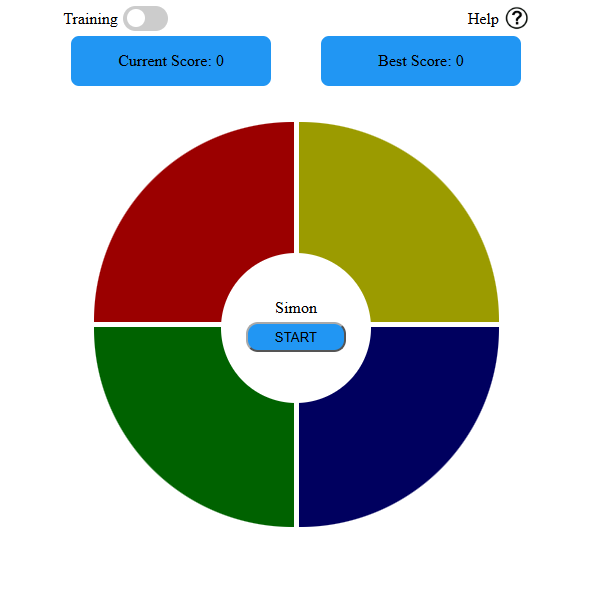
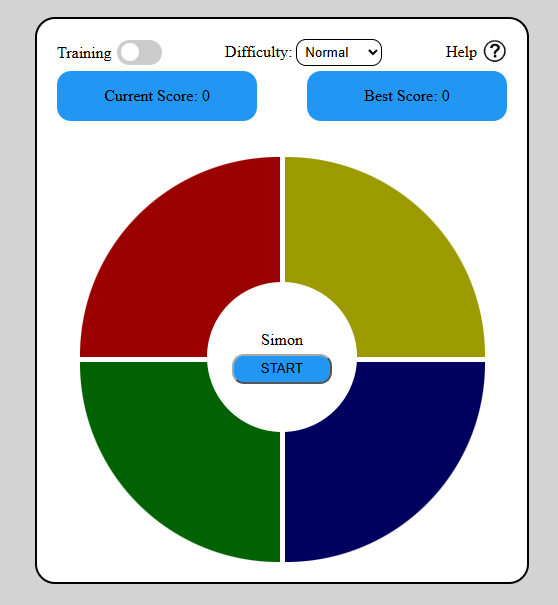
Added difficulty settings

diff --git a/js/app.js b/js/app.js
@@ -1,6 +1,4 @@
-/*-------------------------------- Constants --------------------------------*/
-const finishCriteria = 5
-/*-------------------------------- Variables --------------------------------*/
+let finishCriteria = 5
 let sequence = []
 let userInput = []
 let currentGameMode = 'Simon'
@@ -10,7 +8,6 @@ let bestScore = 0
 let currentIndexToPress = 0
 let timeOut = 1000
 let i = 0
-/*------------------------ Cached Element References ------------------------*/
 
 const topLeftEl = document.querySelector('.top-left')
 const topRightEl = document.querySelector('.top-right')
@@ -21,56 +18,38 @@ const currentScoreEl = document.querySelector('#currentScore')
 const BestScoreEl = document.querySelector('#bestScore')
 const startEl = document.querySelector('#start')
 const popupEl = document.querySelector('#popup')
-
+const diffSelectorEl = document.querySelector('#difficulty')
 const youWinImgEl = document.querySelector('#youWinImg')
 const youLoseImgEl = document.querySelector('#youLoseImg')
 const gameStatusParagraphEl = document.querySelector('#gameStatusParagraph')
 const resetbuttonEl = document.querySelector('#resetGame')
 
 
-
-/*----------------------------- Event Listeners -----------------------------*/
-
 topLeftEl.addEventListener('click', () => {
     playSound('Assets_Audio_A7')
-    // console.log('clicked topLeftEl')
     userInput.push(0)
     buttonPress()
-    // buttonPress(0)
 })
 topRightEl.addEventListener('click', () => {
     playSound('Assets_Audio_C2')
-    // console.log('clicked topRightEl')
     userInput.push(1)
     buttonPress()
-    // buttonPress(1)
 })
 bottomLeftEl.addEventListener('click', () => {
     playSound('Assets_Audio_D7')
-    // console.log('clicked bottomLeftEl')
     userInput.push(2)
     buttonPress()
-    // buttonPress(2)
 })
 bottomRightEl.addEventListener('click', () => {
     playSound('Assets_Audio_G2')
-    // console.log('clicked bottomRightEl')
     userInput.push(3)
     buttonPress()
-    // buttonPress(3)
 })
 resetbuttonEl.addEventListener('click', () => {
     sequence = []
     userInput = []
     popupEl.style.display = 'none'
-    // gameStart = true
     startEl.textContent = 'START'
-    // nextSequence()
-    // startEl.classList = 'active'
-    // topLeftEl.inert = false
-    // topRightEl.inert = false
-    // bottomLeftEl.inert = false
-    // bottomRightEl.inert = false
 })
 
 //Set game mode
@@ -80,6 +59,21 @@ gameModeEl.addEventListener('change', () => {
     } else {
         currentGameMode = 'Simon'
     }
+})
+
+diffSelectorEl.addEventListener('change', () => {
+    if (diffSelectorEl.value === 'easy') {
+        finishCriteria = 5
+        timeOut = 1000
+    } else if (diffSelectorEl.value === 'normal') {
+        finishCriteria = 25
+        timeOut = 800
+    } else if (diffSelectorEl.value === 'unlimited') {
+        finishCriteria = Infinity
+        timeOut = 500
+    }
+    console.log('.value ' + diffSelectorEl.value)
+    console.log('.textContent ' + diffSelectorEl.textContent)
 })
 
 startEl.addEventListener('click', () => {
@@ -141,7 +135,6 @@ startEl.addEventListener('click', () => {
     }
 }
 )
-/*-------------------------------- Functions --------------------------------*/
 
 const playSound = (toPlay) => {
     const audioElement = new Audio(`../assets/audio/${toPlay}.ogg`)
@@ -168,7 +161,6 @@ function setcurrentScore() {
 function assignClickClass() {
 
     if (i >= sequence.length) {
-        // console.log(' 1 sequence length: ' + sequence.length + '. i= ' + i)
         i = 0
         return
     } else {
@@ -193,21 +185,14 @@ function assignClickClass() {
             setTimeout(() => { bottomRightEl.id = '' }, timeOut)
 
         } else {
-            // console.log(' Something went wrong... sequence length: ' + sequence.length + '. i= ' + i)
             i = 0
             return
         }
 
-        // console.log('index to press: ' + currentIndexToPress + '. i= ' + i)
         i++
         setTimeout(() => {
             assignClickClass()
         }, timeOut + 100)
-
-        // console.log(' 3 sequence length: ' + sequence.length + '. i= ' + i)
-        // console.log('user needs to play: ' + (currentIndexToPress + 1))
-
-
 
     }
 
@@ -219,7 +204,6 @@ function nextSequence() {
     sequence.push(Math.floor(Math.random() * 4))
     console.log(sequence)
     assignClickClass()
-    // currentIndexToPress = 0 
 }
 
 
@@ -229,7 +213,6 @@ function resetSequence() {
         sequence = []
         console.log(sequence)
         currentScore = 0
-        //maybe I will need other things here.. like , turn start = false and buttons to be inert etc...
         topLeftEl.inert = true
         topRightEl.inert = true
         bottomLeftEl.inert = true
@@ -258,8 +241,6 @@ function buttonPress() {
             if (parseInt(userInput[index]) === parseInt(sequence[index])) {
                 console.log('correct button')
             } else {
-                // User pressed 
-                //check game mode.. if = 'Simon' set game as finished.. gameover/user lost.. give user a way to start again without resetting Best Score
                 console.log('incorrect button')
                 if (currentGameMode === 'Simon') {
                     let lastscore = currentScore
@@ -281,16 +262,12 @@ function buttonPress() {
                     assignClickClass()
                     return
                 }
-                //Show to user that the game ended because they entered wrong button..
-                //set startbutton to inactive.. buttons inert etc...
             }
         }
         if (currentIndexToPress === finishCriteria) {
-            //set game as finished || user Won
 
             // playSound('xxx')
-            //show the user that they won.. Popup
-            //set the  mid button to 'start'
+            
             youLoseImgEl.style.display = 'none'
             youWinImgEl.style.display = 'block'
             gameStatusParagraphEl.textContent = `Victory! Your memory is perfect. You reached the max score of ${currentScore}!`
@@ -305,8 +282,10 @@ function buttonPress() {
         }
         else if (!statusFailed) {
             setcurrentScore()
-            nextSequence()
             currentIndexToPress++
+            setTimeout(()=>{
+                nextSequence()
+            },1000)
         }
         userInput = []
     }
@@ -316,9 +295,3 @@ function buttonPress() {
 
 
 //function to update the current Score each time the user clicks the right button after the sequence /// and if the current Score is > than the Best score update the BEst score too.
-
-
-
-/*--------------------------------------------------------------------------------*/
-/*-------------------------------- Code GraveYard --------------------------------*/
-/*--------------------------------------------------------------------------------*/

diff --git a/css/style.css b/css/style.css
@@ -7,6 +7,14 @@ body {
     background-color: lightgray;
 }
 
+#difficulty {
+    padding: 4px;
+    border-radius: 10px;
+    border: black solid 1px;
+    cursor: pointer;
+}
+
+
 #container {
     padding: 20px;
     display: flex;
@@ -42,6 +50,7 @@ body {
     margin-top: auto;
     margin-bottom: 30px;
     background-color: burlywood;
+    cursor: pointer;
 }
 
 .popupStyle {
@@ -143,6 +152,8 @@ a {
     border-radius: 12px;
     border-color: darkgray;
     background-color: #2196F3;
+
+    cursor: pointer;
 }
 
 #start:hover {
@@ -174,7 +185,7 @@ a {
     height: 50px;
     background-color: #2196F3;
     text-align: center;
-    border-radius: 8px;
+    border-radius: 14px;
 }
 
 .bestScoreCard {
@@ -182,7 +193,7 @@ a {
     height: 50px;
     background-color: #2196F3;
     text-align: center;
-    border-radius: 8px;
+    border-radius: 14px;
 }
 
 #help {
@@ -196,10 +207,8 @@ a {
 #extra {
     display: flex;
     flex-direction: row;
-
-    gap: 300px;
-    justify-content: center;
-    /* align-content: center */
+    /* gap: 95px; */
+    justify-content: space-between;
 }
 
 #Training-toggle {

diff --git a/index.html b/index.html
@@ -29,9 +29,17 @@
 
                 </div>
 
+                <div id="difficulty-setting">
+                    <label for="difficulty">Difficulty: </label>
+                    <select id="difficulty" name="difficulty">
+                        <option value="easy" selected>Easy</option>
+                        <option value="normal" >Normal</option>
+                        <option value="unlimited">Unlimited</option>
+                    </select>
+                </div>
+
                 <a href="help.html">
                     <div id="help">
-                        <!-- Help button (Expain the game)-->
                         <span>Help</span>
                         <img id="helpImg" src="assets/images/questionMark.png" alt="Need help?">
                     </div>
@@ -73,7 +81,6 @@
         <div id="centre-circle">
             <span id="Title">Simon</span>
             <button type="button" id="start">START</button>
-            <span id="gameStatus"></span>
         </div>
 
         <div id="popup" class="popupStyle">

diff --git a/README.md b/README.md
@@ -42,4 +42,4 @@ open index.html
 4. Arrow keys as a backup way to press teh buttons
 
 ### Credits
-This project was not possible without the help and support of my instructor in GA, Ms. **Nabila** and the Instructor Associates, IA **Zainab** and IA **Bidoor**.
+This project would've not been possible without the help and support of my instructor in GA, Ms. **Nabila** and the Instructor Associates, Ms. **Zainab** and Ms. **Bidoor**.